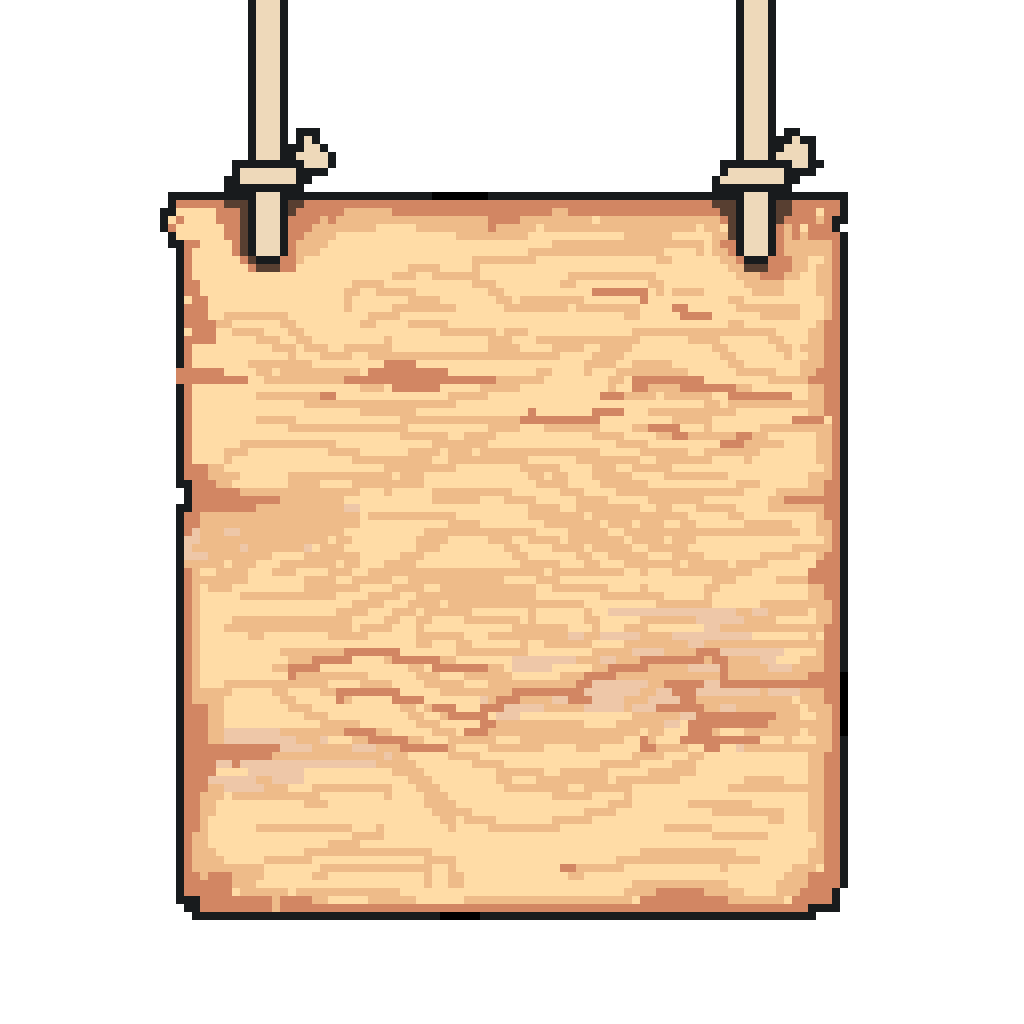
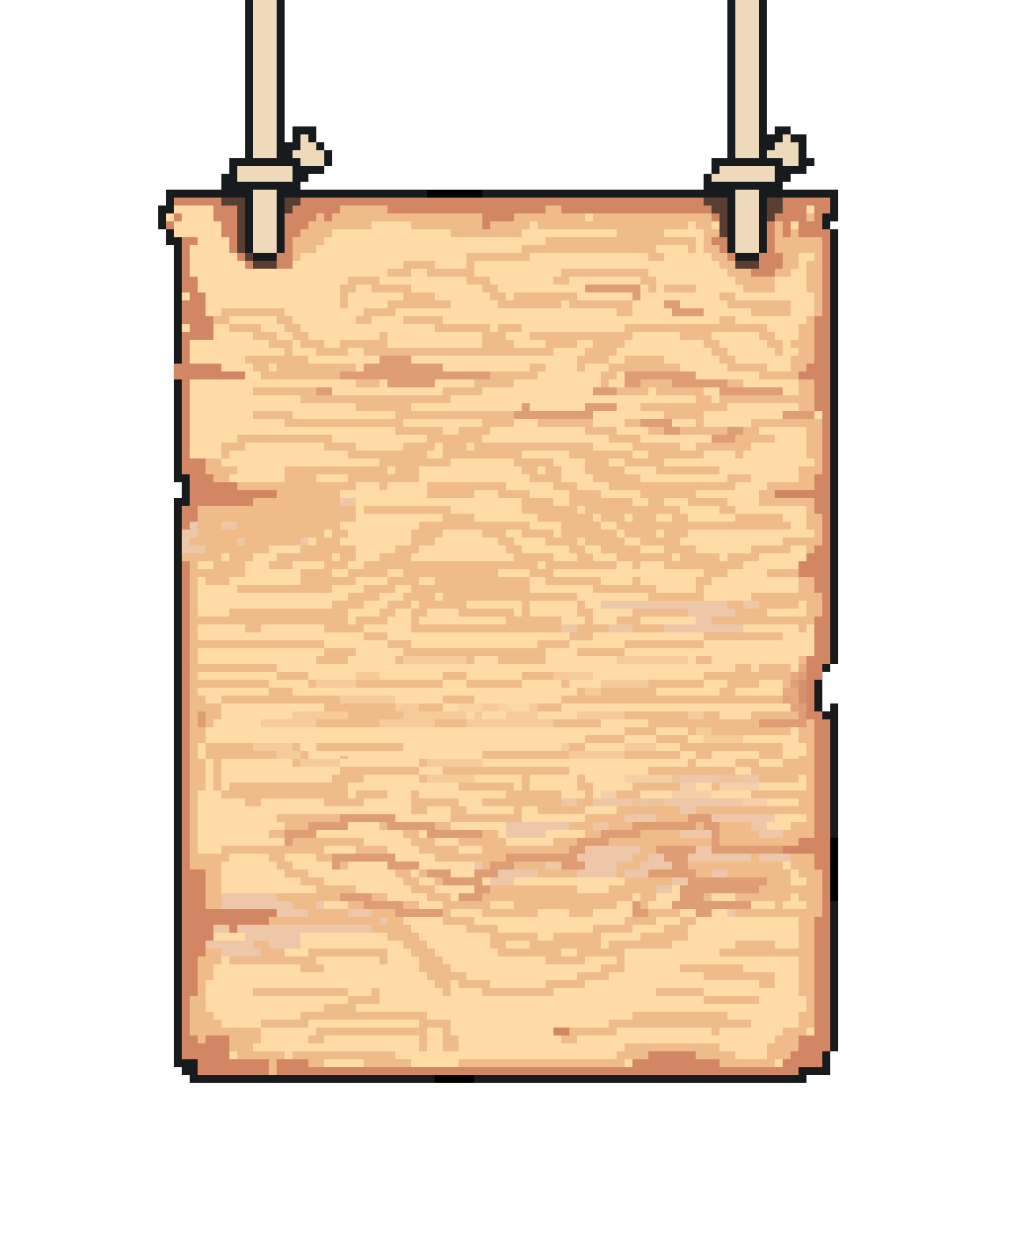
change the scoreboard length and displays

Changed region(s): [[0.1532, 0.0938, 0.8271, 0.9062]]

diff --git a/UI/GUI.cpp b/UI/GUI.cpp
@@ -334,24 +334,26 @@ bool GUI::renderUI() {
 	ImGui::NewFrame();
 	ImGui::PushStyleVar(ImGuiStyleVar_WindowPadding, ImVec2(0, 0));
 	ImGui::PushStyleVar(ImGuiStyleVar_WindowBorderSize, 0);
+	
 	/* build scoreboard */
 	if (GUI_show_scoreboard) {
-		ImGui::SetNextWindowPos(ImVec2(0, 0), 0, ImVec2(0, 0));
-		ImGui::SetNextWindowSize(ImVec2(score_background.my_image_width * display_ratio, score_background.my_image_height * display_ratio));
-		ImGui::Begin("ScoreBoard_bg", NULL, TRANS_WINDOW_FLAG);
+		ImGui::SetNextWindowPos(ImVec2(0, 0));
+		ImVec2 score_size = ImVec2(score_background.my_image_width * display_ratio, score_background.my_image_height * display_ratio); 
+		ImGui::SetNextWindowSize(score_size);
+		ImGui::Begin("ScoreBoard", NULL, TRANS_WINDOW_FLAG);
 		ImGui::SetCursorPos(ImVec2(0, 0));
 		ImGui::Image((void*)(intptr_t)score_background.my_image_texture, ImVec2(score_background.my_image_width * display_ratio, score_background.my_image_height * display_ratio));
-		ImGui::End();
-		ImGui::SetNextWindowPos(ImVec2(190 * display_ratio, 190 * display_ratio), 0, ImVec2(0, 0));
-		ImGui::SetNextWindowSize(ImVec2(score_background.my_image_width * display_ratio, score_background.my_image_height * display_ratio));
-		ImGui::Begin("ScoreBoard_content", NULL, TRANS_WINDOW_FLAG);
 		ImGui::PushStyleColor(ImGuiCol_Text, IM_COL32(51, 48, 49, 255));
-
+		ImVec2 cursor = ImVec2(score_size.x / 4, score_size.y / 5);
+		float icon_padding = 20.0f * display_ratio;
 		for (int i = 0; i < char_selections.size(); i++) {
+			ImGui::SetCursorPos(cursor);
 			GUIImage image = icon_images_map[char_selections[i]];
-			ImGui::Image((void*)(intptr_t)image.my_image_texture, ImVec2(image.my_image_width * display_ratio, image.my_image_height * display_ratio));
+			ImVec2 image_size = ImVec2(image.my_image_width * display_ratio, image.my_image_height * display_ratio);
+			ImGui::Image((void*)(intptr_t)image.my_image_texture, image_size);
 			ImGui::SameLine();
 			ImGui::Text("%d", scoreboard_data[i]);
+			cursor.y += image_size.y + icon_padding;
 		}
 		ImGui::PopStyleColor();
 		ImGui::End();
